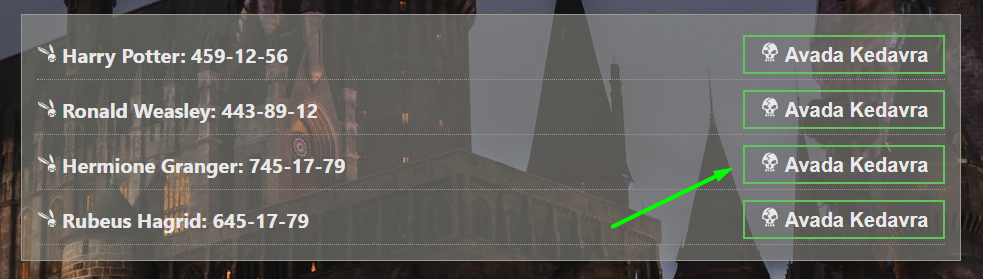
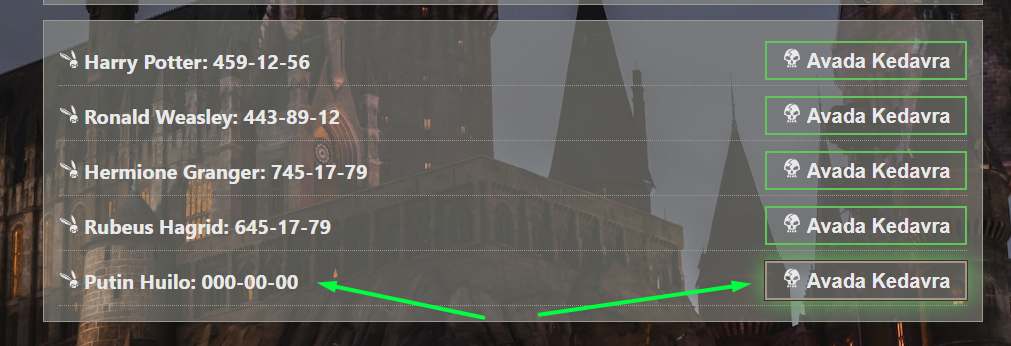
upd readme file

diff --git a/README.md b/README.md
@@ -1,4 +1,4 @@
-# React Homework - 2 - PhoneBook
+# React Homework - 3 - PhoneBook
 
 To your attention, an application for saving phone numbers - Hogwarts Magical Phonebook.
 
@@ -8,6 +8,7 @@ To your attention, an application for saving phone numbers - Hogwarts Magical Ph
 `«Javascript»`
 `«React Icons / library»`
 `«Emotion / library»`
+`«LocalStorage»`
 `«prop-types / npm»`
 
 Used assembly: [React project template](https://github.com/goitacademy/react-homework-template#readme)
@@ -25,6 +26,9 @@ A list of all phonebook contacts.
 
 You cannot add users with the same name or phone number.
 ![duplicate](./assets/duplicate.png)
+
+After restarting the application, all contacts will remain in place!
+![restart](./assets/contacts_list_reboot.png)
 
 And you can also delete a contact using the magic button!
 ![delete](./assets/delete_btn.png)
